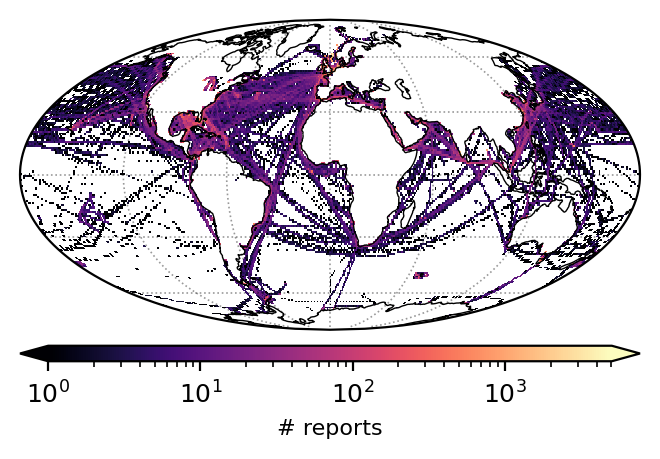
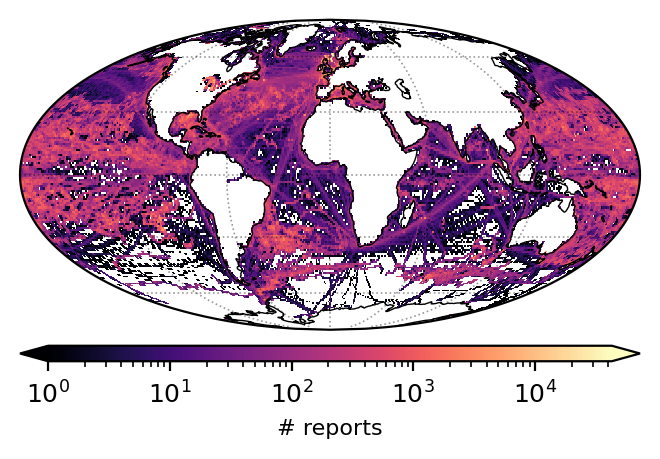
adjusments

diff --git a/figures/duplicate_status_ts_plot.py b/figures/duplicate_status_ts_plot.py
@@ -50,8 +50,8 @@ if __name__ == "__main__":
     f, ax = plt.subplots(1, 1,figsize=figsize)
     ax.stackplot(data.index,100*data['0']/data['nreports'],
         100*data['1']/data['nreports'],
-        100*data['4']/data['nreports'],
-        100*data['2']/data['nreports'],
+        #100*data['4']/data['nreports'],
+        #100*data['2']/data['nreports'],
         100*data['3']/data['nreports'],
         labels = ['unique','best','not checked','duplicate','worst'], colors=['Grey','DarkCyan','SeaShell','Orange','Red'],alpha = 0.3,edgecolor=['Grey']*5,linewidth=.3)
     #ax.plot(data['nreports'].rolling(12, center=True).mean(),label='__nolegend__',linewidth = 1,linestyle = ':',color = 'Black',alpha=0.7)

diff --git a/data_summaries/monthly_grids.py b/data_summaries/monthly_grids.py
@@ -100,8 +100,7 @@ def main():
     nreports_ships_list = []
     mean_list = []
     start = datetime.datetime(config['start'],1,1)
-    #stop = datetime.datetime(config['stop'],12,31)
-    stop = datetime.datetime(config['stop'],1,31)
+    stop = datetime.datetime(config['stop'],12,31)
     for dt in rrule.rrule(rrule.MONTHLY, dtstart=start, until=stop):
         date_file = dt.strftime('%Y-%m')
         parq_path = os.path.join(config['dir_out'],'-'.join([date_file,table,'.data.parq.tmp', str(random.randint(0, 1000000))]))

diff --git a/figures/nreports_and_nmonths_maps.py b/figures/nreports_and_nmonths_maps.py
@@ -242,7 +242,7 @@ if __name__ == "__main__":
     min_obs = config.get('min_obs',1)
 
     tables = list(config.get('tables').keys())
-
+    tables = ["header", "observations-sst"]
     for tablei in tables:
         logging.info('Figure: {}'.format(tablei))
         dataset_path = os.path.join(dir_data,config['tables'][tablei]['nc_file'])
